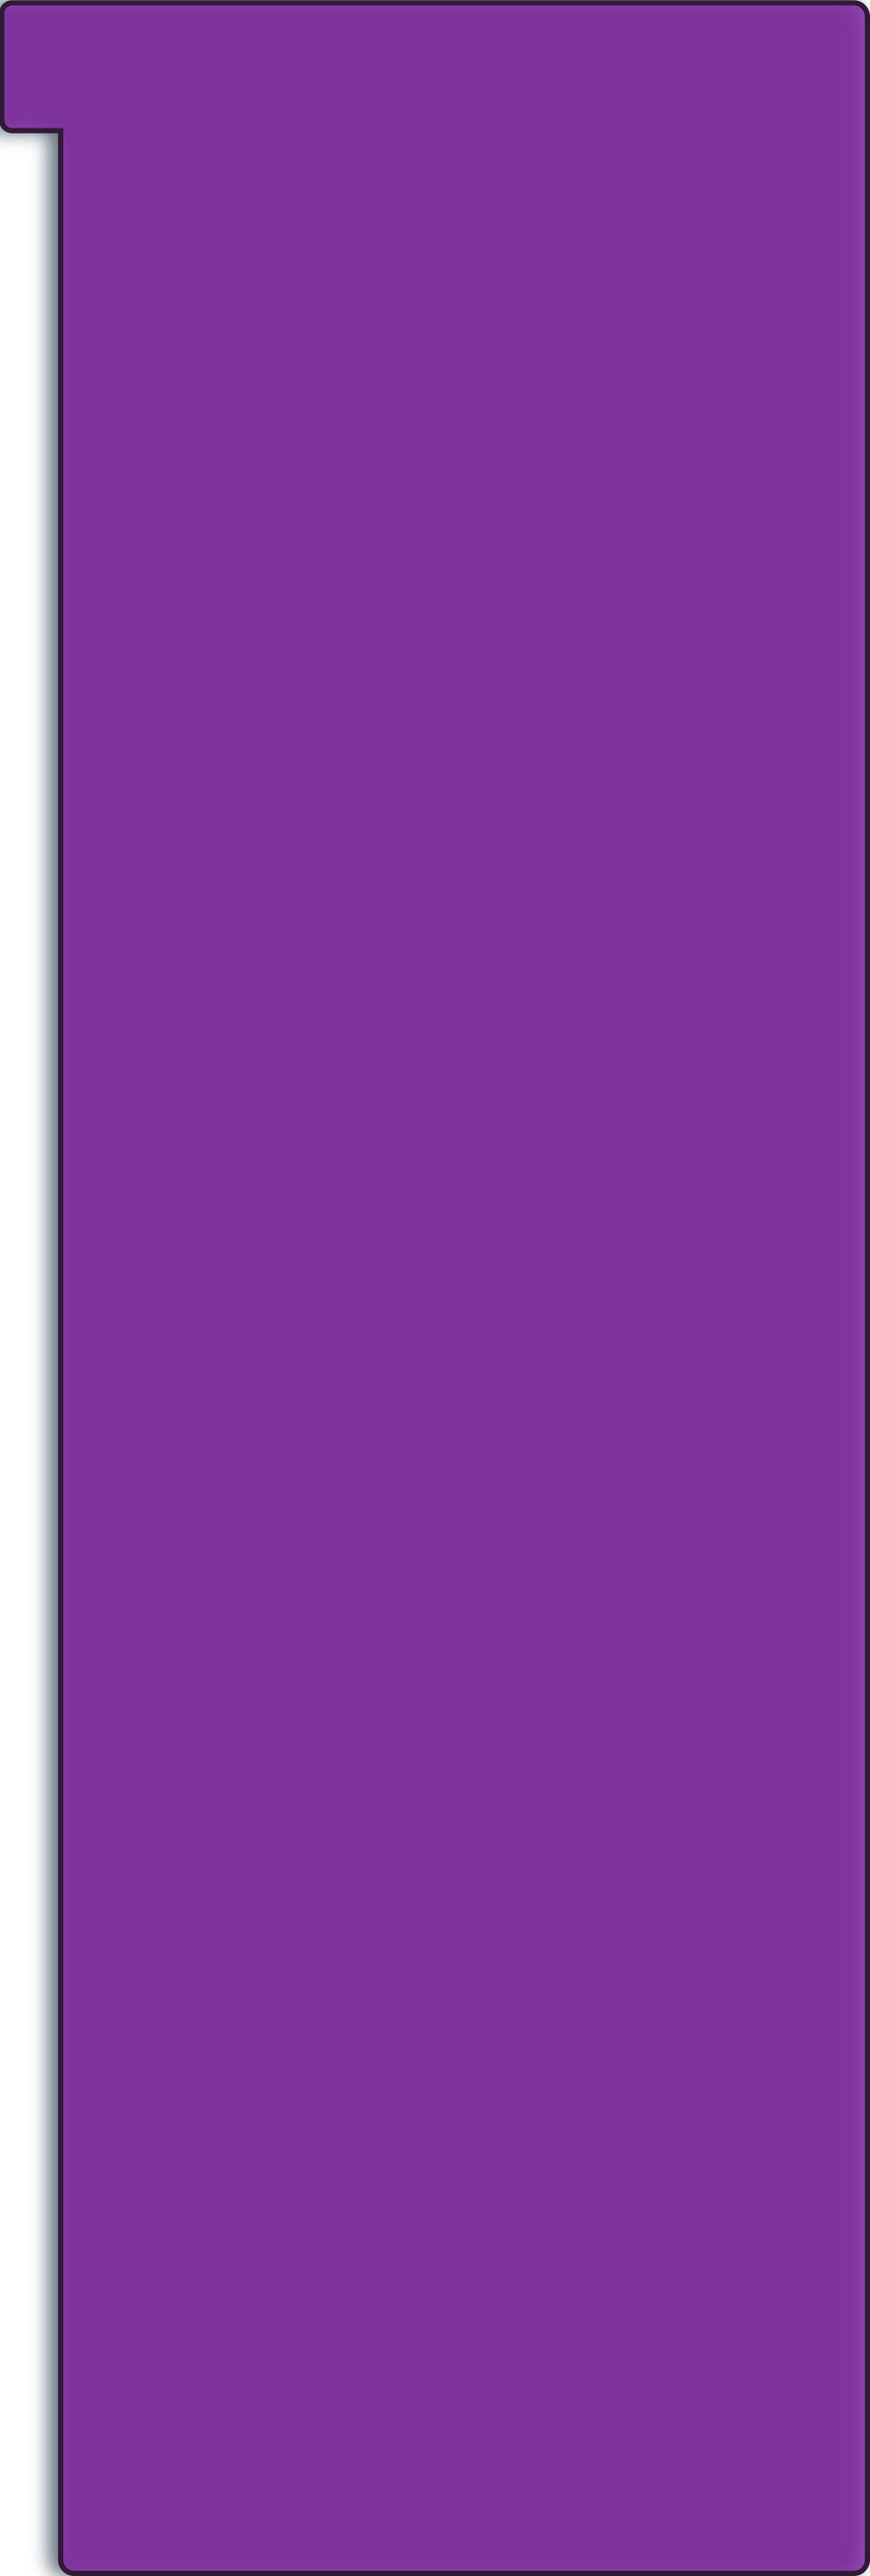
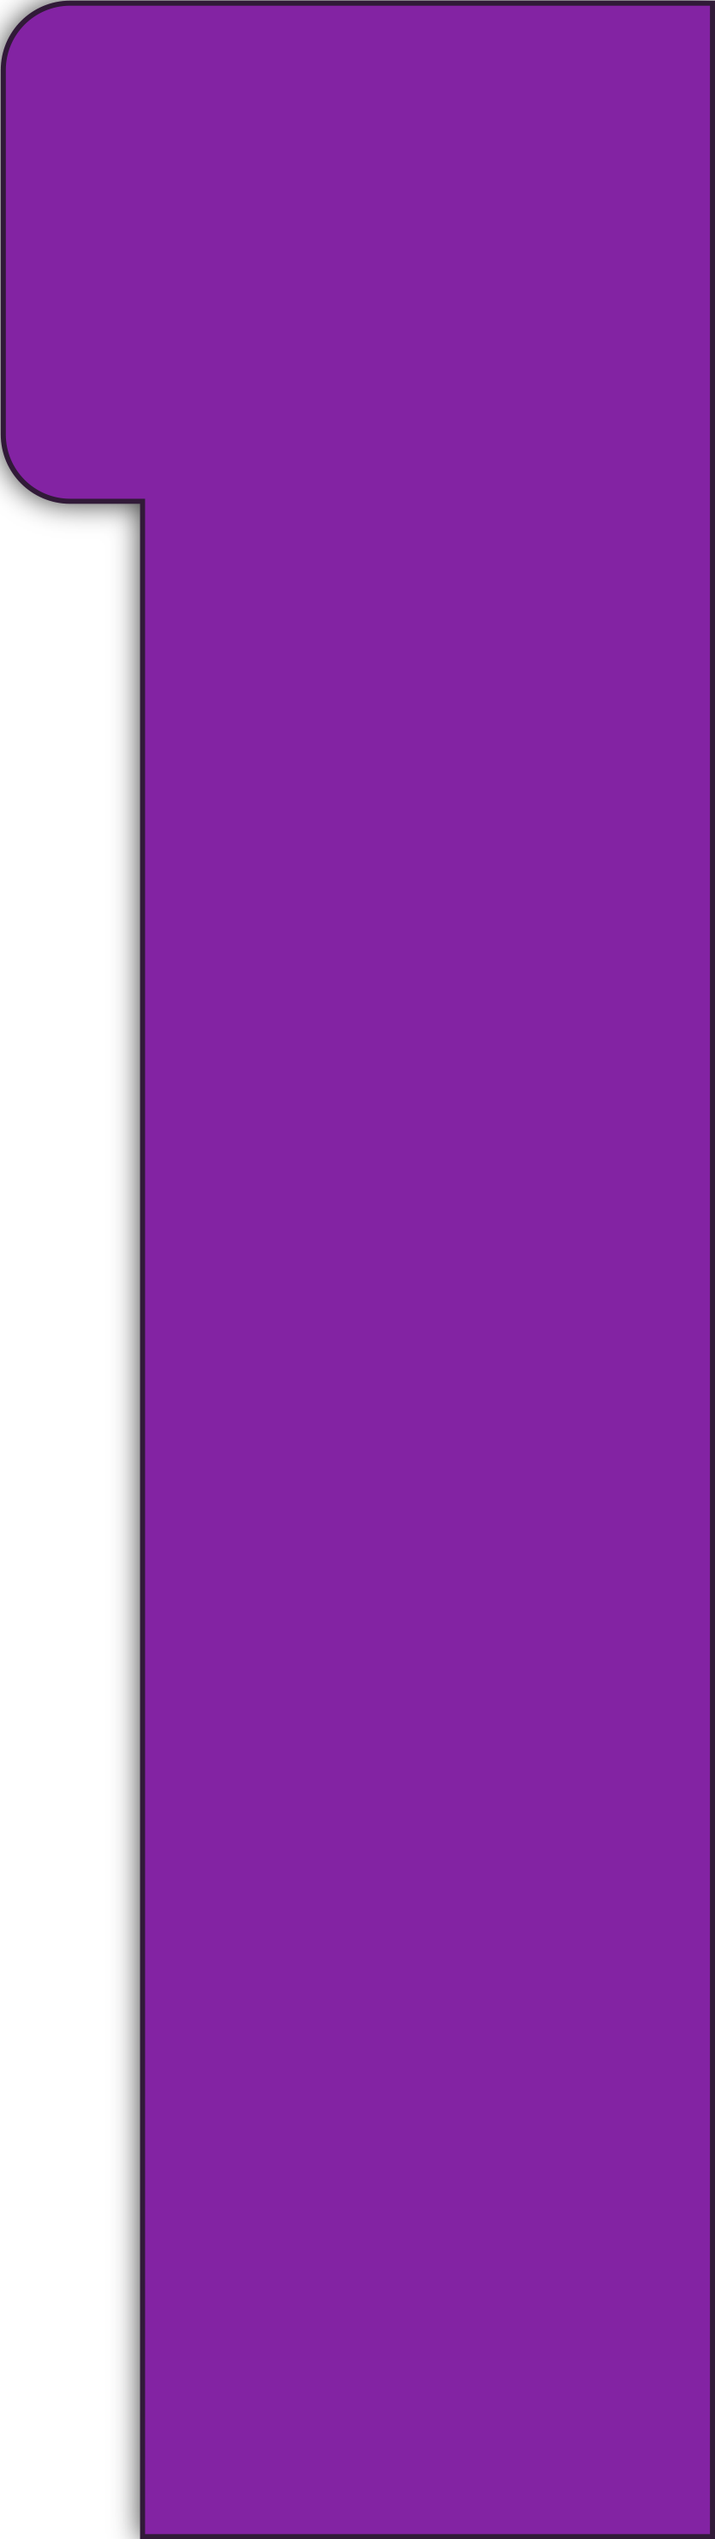
landscape, some images, and fixes

Changed region(s): [[0.0, 0.0, 0.218, 1.0], [0.9653, 0.0, 1.0, 1.0]]

diff --git a/Classes/Landscape.m b/Classes/Landscape.m
@@ -20,7 +20,7 @@
 
 -(UIImage*) layer1 {
 	if (layer1 == nil) {
-        NSString *file = [[NSString alloc] initWithFormat:@"%@/%@.png", [[NSBundle mainBundle] resourcePath], layer1Name];
+        NSString *file = [[NSString alloc] initWithFormat:@"%@/%@", [[NSBundle mainBundle] resourcePath], [ImageManager getIphoneIpadFile: layer1Name]];
         layer1 = [UIImage alloc];
         layer1 = [layer1 initWithContentsOfFile: file];
     }
@@ -29,7 +29,7 @@
 
 -(UIImage*) layer2 {
 	if (layer2 == nil) {
-        NSString *file = [[NSString alloc] initWithFormat:@"%@/%@.png", [[NSBundle mainBundle] resourcePath], layer2Name];
+        NSString *file = [[NSString alloc] initWithFormat:@"%@/%@", [[NSBundle mainBundle] resourcePath], [ImageManager getIphoneIpadFile: layer2Name]];
         layer2 = [UIImage alloc];
         layer2 = [layer2 initWithContentsOfFile: file];
     }
@@ -38,7 +38,7 @@
 
 -(UIImage*) layer3 {
 	if (layer3 == nil) {
-        NSString *file = [[NSString alloc] initWithFormat:@"%@/%@.png", [[NSBundle mainBundle] resourcePath], layer3Name];
+        NSString *file = [[NSString alloc] initWithFormat:@"%@/%@", [[NSBundle mainBundle] resourcePath], [ImageManager getIphoneIpadFile: layer3Name]];
         layer3 = [UIImage alloc];
         layer3 = [layer3 initWithContentsOfFile: file];
     }

diff --git a/Classes/ConfigView.m b/Classes/ConfigView.m
@@ -28,6 +28,7 @@
 }
 
 - (void) show {
+    [super viewWillAppear: YES];
     // Refresh buttons
     Language* l = [UserContext getLanguageSelected];
     [langButton setImage: l.image forState: UIControlStateNormal];
@@ -130,7 +131,7 @@
 
 - (void) refreshSoundButton {
 	NSString *soundImageFile;
-	soundImageFile = UserContext.soundEnabled == YES ? @"ico_volume.png" : @"sound-of.png";
+	soundImageFile = UserContext.soundEnabled == YES ? @"ico_volume.png" : @"ico_volume_off.png";
     //soundImageFile = [ImageManager getIphoneIpadFile: soundImageFile];
 	[soundButton setImage: [UIImage imageNamed: soundImageFile] forState: UIControlStateNormal];
 	//[self.view.layer removeAllAnimations];

diff --git a/Classes/TestTrain.m b/Classes/TestTrain.m
@@ -280,10 +280,13 @@
 			[self changeImageOn: aButton wordButtonLabel: aButtonLabel id: i];
 		} else {
 			flagFaild = YES;
+            Word* w2 = [words objectAtIndex: i];
+            [w2 incWeight];
 			[w incWeight];
-			//AudioServicesPlaySystemSound(errorSoundId);
             [errorSoundId play];
             [AnimatorHelper shakeView: aButton];
+            
+            
 		}
 	} @catch (NSException * e) {
 		NSLog(@"Exception in wordButton:clicked");

diff --git a/Classes/MapScrollView.m b/Classes/MapScrollView.m
@@ -138,7 +138,7 @@
 	[UIView beginAnimations: @"ShowLevelInMap" context: (__bridge void *)(imageLevel)];
 	[UIView setAnimationDelegate: self];
 	[UIView setAnimationDidStopSelector: @selector(showLevelInMapDidStop:finished:context:)];
-	[UIView setAnimationDuration: 4];
+	[UIView setAnimationDuration: 2];
 	[UIView setAnimationCurve:UIViewAnimationCurveEaseIn];
     imageLevel.alpha = 0;
 	[UIView commitAnimations];

diff --git a/Classes/MapView.m b/Classes/MapView.m
@@ -522,9 +522,8 @@
     [mapScrollView showLevelInMap: [UserContext getLevelAt: 3]];
 }
 
-
 - (void) helpAnimation3_D {
-        // Move hand to a station 2
+    // Move hand to a station 2
     [UIImageView beginAnimations: @"HandToLevel" context: (__bridge void *)(hand)];
     [UIImageView setAnimationDelegate: self];
     [UIImageView setAnimationCurve: UIViewAnimationCurveLinear];

diff --git a/Classes/PurchaseManager.m b/Classes/PurchaseManager.m
@@ -38,7 +38,7 @@ PurchaseManager *purchaseManagerSingleton;
 }
 
 + (NSString*) getPriceAsText: (SKProduct*) p {
-    if (!p) return  @"---";
+    if (!p) return  @"no internet ?";
     NSNumberFormatter *formatter = [[NSNumberFormatter alloc] init];
     [formatter setNumberStyle:NSNumberFormatterCurrencyStyle];
     [formatter setLocale: p.priceLocale];

diff --git a/Classes/GenericTrain.h b/Classes/GenericTrain.h
@@ -31,8 +31,8 @@
 #define cStatusGameIsGoingToNextLevel 7
 #define cStatusHelpOn 8
 
-#define cLandscapeOffset -2059
-#define cLandscapeOffsetIpad -4964
+#define cLandscapeOffset -2487
+#define cLandscapeOffsetIpad -5968
 #define cHitsPerGame 7
 
 enum {

diff --git a/Classes/SliderViewController.h b/Classes/SliderViewController.h
@@ -8,8 +8,8 @@
 
 #import "GenericDownloadViewController.h"
 
-#define cFlapWidthIpad 21
-#define cFlapWidthIpod 17
+#define cFlapWidthIpad 30
+#define cFlapWidthIpod 16
 #define cMarginHeightIpad 10
 #define cMarginHeightIpod 5
 
